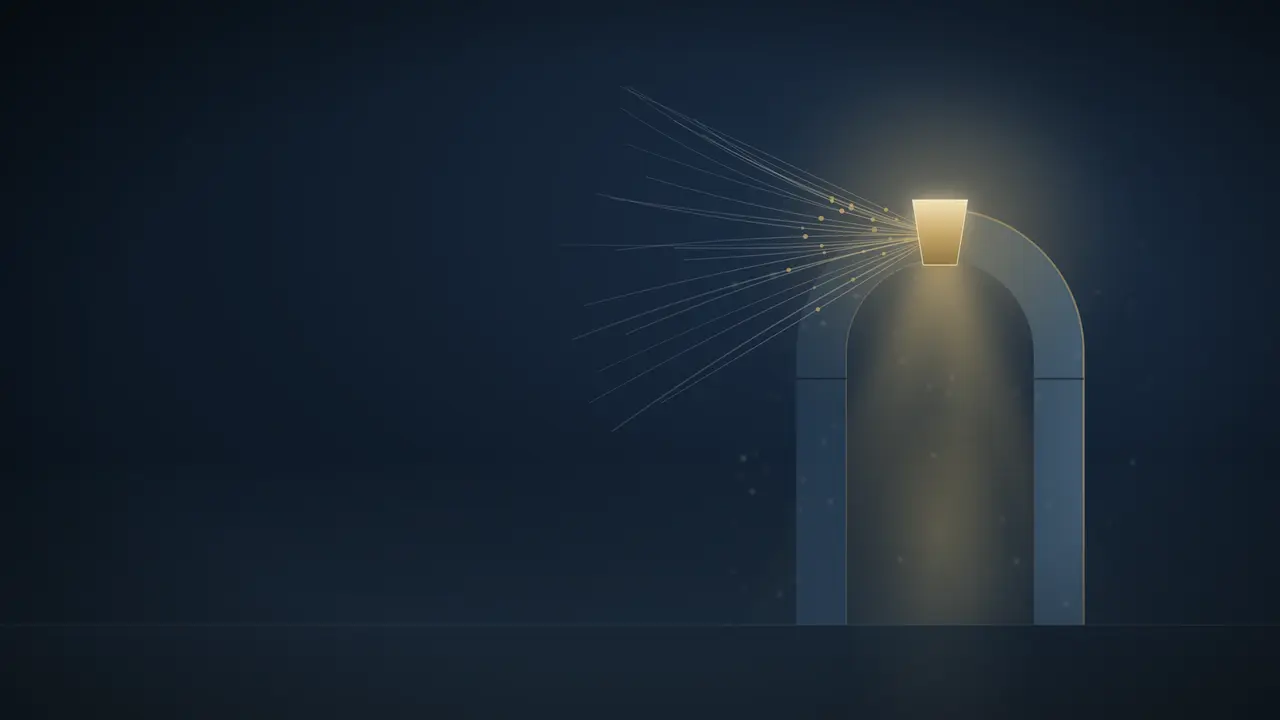
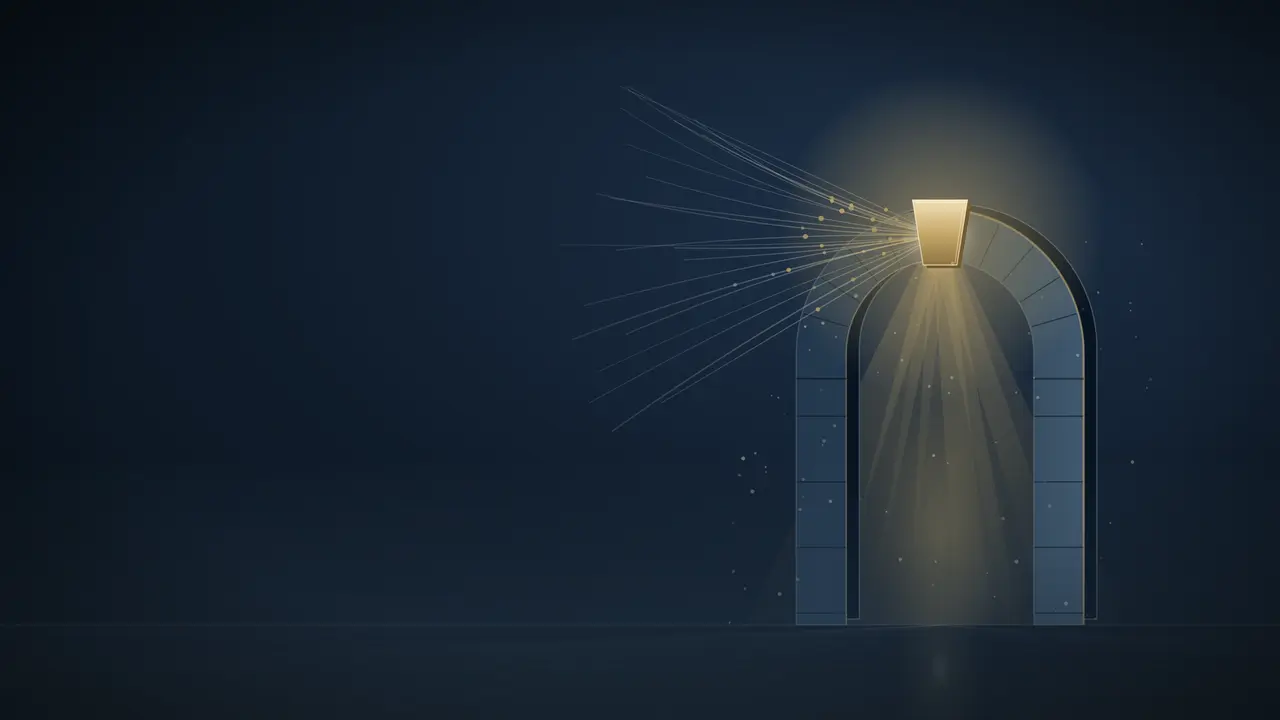
Prepare cinematic v3 concept graphics and artwork review gallery

diff --git a/build.js b/build.js
@@ -22,10 +22,11 @@ const baseUrl = `https://${s.host}/`;
 // ---------- pieces ----------
 // Placeholder SV mark until the real monogram exists (punch list #10): two strokes in a keystone frame.
 const markSvg = (cls, label) => `<svg${cls ? ` class="${cls}"` : ''} viewBox="0 0 72 72"${label ? ` role="img" aria-label="${label}"` : ' aria-hidden="true"'}><path d="M10 6h52v38L36 66 10 44z" fill="none" stroke="${p.champagne}" stroke-width="2"/><path d="M27 22c-6 0-8 7-1 9l6 2c7 2 5 10-2 10" fill="none" stroke="${p.ivory}" stroke-width="2.4" stroke-linecap="round"/><path d="M38 22l7 21 7-21" fill="none" stroke="${p.champagne}" stroke-width="2.4" stroke-linejoin="round" stroke-linecap="round"/></svg>`;
-const srcset = key => img[key].widths.map(w => `img/${key}-${w}.webp ${w}w`).join(', ');
+const extension = key => img[key].format === 'jpeg' ? 'jpg' : 'webp';
+const srcset = key => img[key].widths.map(w => `img/${key}-${w}.${extension(key)} ${w}w`).join(', ');
 const pic = (key, sizes, cls = '', eager = false) => {
   const i = img[key], w = i.widths[i.widths.length - 1];
-  return `<img class="${cls}" src="img/${key}-${w}.webp" srcset="${srcset(key)}" sizes="${sizes}" width="${i.w}" height="${i.h}" alt="${esc(i.alt)}"${eager ? ' fetchpriority="high"' : ' loading="lazy" decoding="async"'}>`;
+  return `<img class="${cls}" src="img/${key}-${w}.${extension(key)}" srcset="${srcset(key)}" sizes="${sizes}" width="${i.w}" height="${i.h}" alt="${esc(i.alt)}"${eager ? ' fetchpriority="high"' : ' loading="lazy" decoding="async"'}>`;
 };
 const btn = (l, h, cls = 'btn') => `<a class="${cls}" href="${esc(h)}">${esc(l)}</a>`;
 const textLink = l => l ? `<p class="more"><a href="${esc(l.href)}">${esc(l.label)} <span aria-hidden="true">→</span></a></p>` : '';
@@ -65,6 +66,7 @@ const sections = {
 </form></div>
 <aside><h2 class="h3">What happens next</h2><ol class="next-steps">${x.next.map(n => `<li><h3>${esc(n.title)}</h3><p>${esc(n.body)}</p></li>`).join('')}</ol></aside></div></section>`,
   legal: x => `<section class="band"><div class="wrap narrow">${draft(x.draft)}${x.parts.map(pt => `<div class="legal" id="${pt.id}"><h2>${esc(pt.h2)}</h2>${pt.paras.map(t => `<p>${esc(t)}</p>`).join('')}</div>`).join('')}</div></section>`
+  ,gallery: x => `<section class="band"><div class="wrap"><div class="art-gallery">${x.items.map(i => `<figure>${pic(i.image, '(max-width: 760px) 90vw, 550px')}<figcaption><h2 class="h3">${esc(i.title)}</h2><p>${esc(i.caption)}</p></figcaption></figure>`).join('')}</div></div></section>`
 };
 
 const hero = pg => {
@@ -113,7 +115,7 @@ ${pg.sections.map(x => sections[x.type](x)).join('\n')}
 </main>
 <footer class="site-foot"><div class="wrap foot-grid">
 <div><p class="foot-brand">${markSvg('mark', '')}<span>${esc(s.fullName)}</span></p><p>${esc(s.descriptor)}</p><p class="tag">${esc(s.tagline)}</p></div>
-<nav aria-label="Footer"><ul>${s.nav.concat(s.footerLinks).filter(n => n.href !== 'index.html').map(n => `<li><a href="${n.href}">${esc(n.label)}</a></li>`).join('')}</ul></nav>
+<nav aria-label="Footer"><ul>${s.nav.concat(s.footerLinks, s.concept && s.artworkReview ? [{label:'Artwork review',href:s.artworkReview.file}] : []).filter(n => n.href !== 'index.html').map(n => `<li><a href="${n.href}">${esc(n.label)}</a></li>`).join('')}</ul></nav>
 <div><p><a href="${esc(s.parent.url)}">${esc(s.parent.label)}</a></p>${s.concept ? `<p class="small">${esc(s.conceptFooter)}</p>` : ''}</div>
 </div></footer>
 <script>${script}</script>
@@ -123,6 +125,7 @@ ${pg.sections.map(x => sections[x.type](x)).join('\n')}
 };
 
 for (const pg of s.pages) fs.writeFileSync(path.join(out, pg.file), page(pg));
+if (s.concept && s.artworkReview) fs.writeFileSync(path.join(out, s.artworkReview.file), page(s.artworkReview));
 fs.writeFileSync(path.join(out, '404.html'), page({ file: '404.html', title: `Page not found · ${s.name}`, description: 'This page could not be found.',
   hero: { eyebrow: 'Not found', h1: 'This page could not be found.', lede: 'It may have moved. The links above will take you where you need to go.' }, sections: [{ type: 'cta' }] }));
 fs.writeFileSync(path.join(out, 'favicon.svg'), markSvg('', '').replace(' aria-hidden="true"', ' xmlns="http://www.w3.org/2000/svg"').replace('<path d="M10', `<rect width="72" height="72" fill="${p.midnight}"/><path d="M10`));

diff --git a/styles.css b/styles.css
@@ -58,6 +58,12 @@ p{margin:0 0 1em}
 .hero-copy h1 span+span{color:var(--champagne);font-size:.72em;line-height:1.22;margin-top:.3em}
 .hero-copy .lead{max-width:52ch}
 .intro-copy{max-width:800px}
+.art-gallery{display:grid;grid-template-columns:repeat(2,minmax(0,1fr));gap:40px}
+.art-gallery figure{margin:0;min-width:0}
+.art-gallery img{width:100%;max-height:540px;object-fit:contain;background:var(--midnight);border-radius:12px}
+.art-gallery figcaption{padding-top:18px}
+.art-gallery figcaption p{font-size:15px}
+@media(max-width:760px){.art-gallery{grid-template-columns:minmax(0,1fr)}}
 .responsibilities{margin:28px 0}
 .responsibilities>div{border-top:1px solid rgba(41,61,80,.2);padding:16px 0}
 .responsibilities dt{font-weight:600;color:var(--midnight)}

diff --git a/tools/check.js b/tools/check.js
@@ -24,7 +24,7 @@ const budget = qa.pageBudgetBytes;
   const results = []; let failures = 0;
   const fail = (msg) => { failures++; console.log('  FAIL ' + msg); };
   try {
-    for (const pg of s.pages.map(x => x.file).concat('404.html')) {
+    for (const pg of s.pages.map(x => x.file).concat('404.html', s.concept && s.artworkReview ? [s.artworkReview.file] : [])) {
       for (const w of widths) {
         const page = await browser.newPage({ viewport: { width: w, height: 900 } });
         const failed = [], errors = [], aborted = [], transfers = []; let bytes = 0;

diff --git a/README.md b/README.md
@@ -2,7 +2,9 @@
 
 Website for **Sovereign Vanguard Concierge MSP**, a Scalable Studio company. GitHub Pages serves **https://svcmsp.scalablestudio.online** from `main`.
 
-**Review state, 2026-11-13:** the public URL still serves the earlier placeholder. Peter-Simon held the eight-page concept in local commit `c65fb3f` for Ken's review. Mary's refinements are on `mary/vision-concept-review-2026-11-13`; pushing that branch does not deploy it. Merge only after review. Open locally with `node build.js`, then `site/index.html`.
+**Cinematic v3, 2026-11-13:** Ken requested native 64K graphic masters and concept-preview deployment, then confirmed cinematic Unreal-style appearance. This package includes the held eight-page concept, Mary's usability refinements and the new graphic family. `artwork.html` is an additional review gallery. Production go-live remains off. Open locally with `node build.js`, then `site/index.html`.
+
+The private planning repository holds eight native vector-derived masters at 61,440px on the long edge, editable SVGs and hash evidence. Visitors receive small responsive derivatives, never 64K images. Unreal Engine was not used. Earlier held-state notes are historical.
 
 - **Concept preview:** banner, noindex and robots disallow until Ken, Ann or Marty says go live (LIVE RULE; `build.js` refuses a live build without `liveApproval`).
 - `site.json`: everything the site says (8 pages), the palette, fonts, navigation and image list.

diff --git a/CHANGELOG.md b/CHANGELOG.md
@@ -1,5 +1,9 @@
 # Changes
 
+## 2026-11-13 — Cinematic v3 concept deployment
+
+Ken requested 64K re-renders and concept-preview deployment. Refreshed all responsive graphics and added an artwork-review gallery. Eight native masters remain in the private source repository; only optimized derivatives ship here. Preserved the placeholder mark, scope/form safeguards and concept/noindex status. This is not production go-live approval.
+
 ## 2026-11-13 — Mary review
 
 Refined the held concept's mobile hero, concierge explanation and audience routes. Fixed 320px header reflow, progressive navigation, Escape/focus behavior and the no-JavaScript form submission gap. Disclosed the local form demonstration before entry, improved validation recovery and blocked live builds until a real enquiry route is implemented. Added configurable QA widths/budget, interaction/privacy regressions and a dated verification summary.
